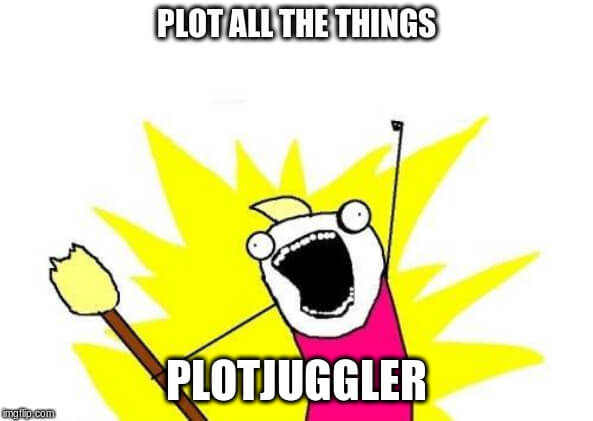
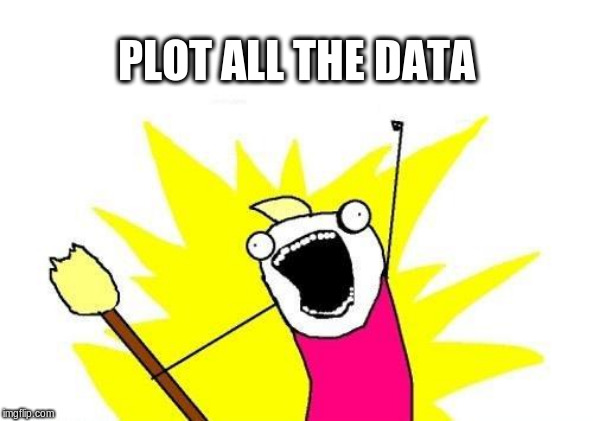
Imported upstream version '2.4.1' of 'upstream'

Changed region(s): [[0.1821, 0.0, 0.8196, 0.2162], [0.2732, 0.8337, 0.7285, 0.9881], [0.0, 0.9881, 0.0607, 1.0]]

diff --git a/plotter_gui/curvelist_view.cpp b/plotter_gui/curvelist_view.cpp
@@ -20,13 +20,11 @@ CurveTableView::CurveTableView(CurveListPanel* parent)
     viewport()->installEventFilter(this);
 
     verticalHeader()->setVisible(false);
-    verticalHeader()->setSectionResizeMode(QHeaderView::ResizeToContents);
 
     horizontalHeader()->setVisible(false);
     horizontalHeader()->setStretchLastSection(true);
 
-    horizontalHeader()->setSectionResizeMode(0, QHeaderView::ResizeToContents);
-    horizontalHeader()->setSectionResizeMode(1, QHeaderView::Stretch);
+    setViewResizeEnabled(true);
 
     setHorizontalScrollMode(QAbstractItemView::ScrollPerPixel);
     setShowGrid(false);
@@ -34,7 +32,7 @@ CurveTableView::CurveTableView(CurveListPanel* parent)
 
 void CurveTableView::addItem(const QString &item_name)
 {
-    if (findItems(item_name, Qt::MatchExactly).size() > 0)
+    if ( _inserted_curves.contains(item_name) )
     {
         return;
     }
@@ -56,6 +54,8 @@ void CurveTableView::addItem(const QString &item_name)
     val_cell->setFlags(Qt::NoItemFlags);
 
     QTableWidget::setItem(row, 1, val_cell);
+
+    _inserted_curves.insert( {item_name} );
 }
 
 void CurveTableView::refreshColumns()
@@ -82,10 +82,7 @@ void CurveTableView::refreshFontSize()
     {
         return;
     }
-    horizontalHeader()->setSectionResizeMode(0, QHeaderView::Fixed);
-    horizontalHeader()->setSectionResizeMode(1, QHeaderView::Fixed);
-
-    verticalHeader()->setSectionResizeMode( QHeaderView::Fixed);
+    setViewResizeEnabled(false);
 
     for (int row = 0; row < rowCount(); row++)
     {
@@ -99,10 +96,7 @@ void CurveTableView::refreshFontSize()
             cell->setFont(font);
         }
     }
-
-    horizontalHeader()->setSectionResizeMode(0, QHeaderView::ResizeToContents);
-    horizontalHeader()->setSectionResizeMode(1, QHeaderView::Stretch);
-    verticalHeader()->setSectionResizeMode(QHeaderView::ResizeToContents);
+    setViewResizeEnabled(true);
 }
 
 void CurveTableView::removeCurve(const QString &name)
@@ -115,10 +109,13 @@ void CurveTableView::removeCurve(const QString &name)
             break;
         }
     }
+    _inserted_curves.remove( name );
 }
 
 bool CurveTableView::applyVisibilityFilter(CurvesView::FilterType type, const QString &search_string)
 {
+    setViewResizeEnabled(false);
+
     bool updated = false;
     _hidden_count = 0;
     QRegExp regexp( search_string, Qt::CaseInsensitive, QRegExp::Wildcard );
@@ -159,7 +156,24 @@ bool CurveTableView::applyVisibilityFilter(CurvesView::FilterType type, const QS
 
         setRowHidden(row, toHide );
     }
+
+    setViewResizeEnabled(true);
     return updated;
+}
+
+void CurveTableView::setViewResizeEnabled(bool enable)
+{
+    if( enable )
+    {
+        horizontalHeader()->setSectionResizeMode(0, QHeaderView::ResizeToContents);
+        horizontalHeader()->setSectionResizeMode(1, QHeaderView::Stretch);
+        verticalHeader()->setSectionResizeMode(QHeaderView::ResizeToContents);
+    }
+    else{
+        horizontalHeader()->setSectionResizeMode(0, QHeaderView::Fixed);
+        horizontalHeader()->setSectionResizeMode(1, QHeaderView::Fixed);
+        verticalHeader()->setSectionResizeMode( QHeaderView::Fixed);
+    }
 }
 
 void CurveTableView::hideValuesColumn(bool hide)

diff --git a/plotter_gui/curvelist_view.h b/plotter_gui/curvelist_view.h
@@ -12,6 +12,7 @@
 #include <QStandardItemModel>
 #include <QTableWidget>
 #include <vector>
+#include <QSet>
 
 #include "PlotJuggler/alphanum.hpp"
 
@@ -57,6 +58,8 @@ class CurvesView
 
     virtual void hideValuesColumn(bool hide) = 0;
 
+    virtual void setViewResizeEnabled(bool enable) = 0;
+
     bool eventFilterBase(QObject* object, QEvent* event);
 
     virtual std::pair<int,int> hiddenItemsCount() = 0;
@@ -85,6 +88,7 @@ class CurveTableView : public QTableWidget, public CurvesView
     void clear() override
     {
         setRowCount(0);
+        _inserted_curves.clear();
     }
 
     void addItem(const QString& item_name);
@@ -111,6 +115,8 @@ class CurveTableView : public QTableWidget, public CurvesView
         }
     }
 
+    void setViewResizeEnabled(bool enable) override;
+
     virtual std::pair<int,int> hiddenItemsCount()
     {
         return { _hidden_count, model()->rowCount() };
@@ -119,6 +125,7 @@ class CurveTableView : public QTableWidget, public CurvesView
     virtual void hideValuesColumn(bool hide) override;
    private:
     int _hidden_count = 0;
+    QSet<QString> _inserted_curves;
 };
 
 #endif  // CURVELIST_VIEW_H

diff --git a/plotter_gui/curvelist_panel.cpp b/plotter_gui/curvelist_panel.cpp
@@ -209,6 +209,7 @@ void CurveListPanel::refreshValues()
     //------------------------------------
     for(CurveTableView* table: { _table_view, _custom_view } )
     {
+        table->setViewResizeEnabled(false);
         const int vertical_height = table->visibleRegion().boundingRect().height();
 
         for (int row = 0; row < table->rowCount(); row++)
@@ -224,6 +225,7 @@ void CurveListPanel::refreshValues()
                 table->item(row, 1)->setText(FormattedNumber( val.value() ));
             }
         }
+        table->setViewResizeEnabled(true);
     }
     //------------------------------------
     {
@@ -248,7 +250,9 @@ void CurveListPanel::refreshValues()
             }
         };
 
+        _tree_view->setViewResizeEnabled(false);
         _tree_view->treeVisitor( DisplayValue );
+        _tree_view->setViewResizeEnabled(true);
     }
 }
 

diff --git a/plotter_gui/curvetree_view.h b/plotter_gui/curvetree_view.h
@@ -70,6 +70,8 @@ class CurveTreeView : public QTreeWidget, public CurvesView
         return { _hidden_count, _leaf_count };
     }
 
+    void setViewResizeEnabled(bool enable) override {}
+
     virtual void hideValuesColumn(bool hide) override;
 
    void treeVisitor(std::function<void(QTreeWidgetItem *)> visitor);

diff --git a/README.md b/README.md
@@ -8,7 +8,7 @@
 [![Join the chat at https://gitter.im/PlotJuggler/Lobby](https://badges.gitter.im/PlotJuggler/Lobby.svg)](https://gitter.im/PlotJuggler/Lobby?utm_source=badge&utm_medium=badge&utm_campaign=pr-badge&utm_content=badge)
 [![Tweet](https://img.shields.io/twitter/url/http/shields.io.svg?style=social)](https://twitter.com/intent/tweet?text=I%20use%20PlotJuggler%20and%20it%20is%20amazing%0D%0A&url=https://github.com/facontidavide/PlotJuggler&via=facontidavide&hashtags=dataviz,plotjuggler,GoROS,PX4)
 
-# PlotJuggler 2.4.0
+# PlotJuggler 2.4.1
 
 QT5 based application to display time series in plots, using an intuitive "drag and drop" interface.
 
@@ -52,11 +52,11 @@ Watch this video to learn how to use it.
 
 For those of you that can't wait and want to get their hands dirty, just download this AppImage:
 
-[PlotJuggler-2.3.6-x86_64.AppImage](https://github.com/facontidavide/PlotJuggler/releases/download/2.3.6/PlotJuggler-2.3.6-x86_64.AppImage).
+[PlotJuggler-2.4.1-x86_64.AppImage](https://github.com/facontidavide/PlotJuggler/releases/download/2.4.1/PlotJuggler-2.4.1-x86_64.AppImage).
    
 Do not forget to make it executable with the command 
 
-    chmod +x ./PlotJuggler-2.3.6-x86_64.AppImage
+    chmod +x ./PlotJuggler-*-x86_64.AppImage
 
 ## How to build (without ROS plugins)
 

diff --git a/appimage_howto.md b/appimage_howto.md
@@ -9,6 +9,8 @@
 In the root folder of ws_plotjuggler:
 
     wget https://github.com/linuxdeploy/linuxdeploy/releases/download/continuous/linuxdeploy-x86_64.AppImage
+    wget https://github.com/linuxdeploy/linuxdeploy-plugin-qt/releases/download/continuous/linuxdeploy-plugin-qt-x86_64.AppImage
+
     chmod +x linuxdeploy*.AppImage
 
     rm -rf build devel install
@@ -19,7 +21,7 @@ In the root folder of ws_plotjuggler:
     mkdir -p AppDir/usr/bin/
     cp install/lib/plotjuggler/* AppDir/usr/bin
     
-    ./linuxdeploy-x86_64.AppImage --appdir=AppDir -d src/PlotJuggler/PlotJuggler.desktop -i src/PlotJuggler/plotjuggler-icon.png --output appimage
+    ./linuxdeploy-x86_64.AppImage --appdir=AppDir -d src/PlotJuggler/PlotJuggler.desktop -i src/PlotJuggler/plotjuggler-icon.png  --plugin qt --output appimage
      
     
 

diff --git a/CHANGELOG.rst b/CHANGELOG.rst
@@ -2,6 +2,14 @@
 Changelog for package plotjuggler
 ^^^^^^^^^^^^^^^^^^^^^^^^^^^^^^^^^
 
+2.4.1 (2019-11-11)
+------------------
+* considerable speed improvement when MANY timeseries are loaded
+* bug fix: slow update of left curve table
+* AppImage update
+* meme update
+* Contributors: Davide Faconti
+
 2.4.0 (2019-11-10)
 ------------------
 * Tree view  (`#226 <https://github.com/facontidavide/PlotJuggler/issues/226>`_)
